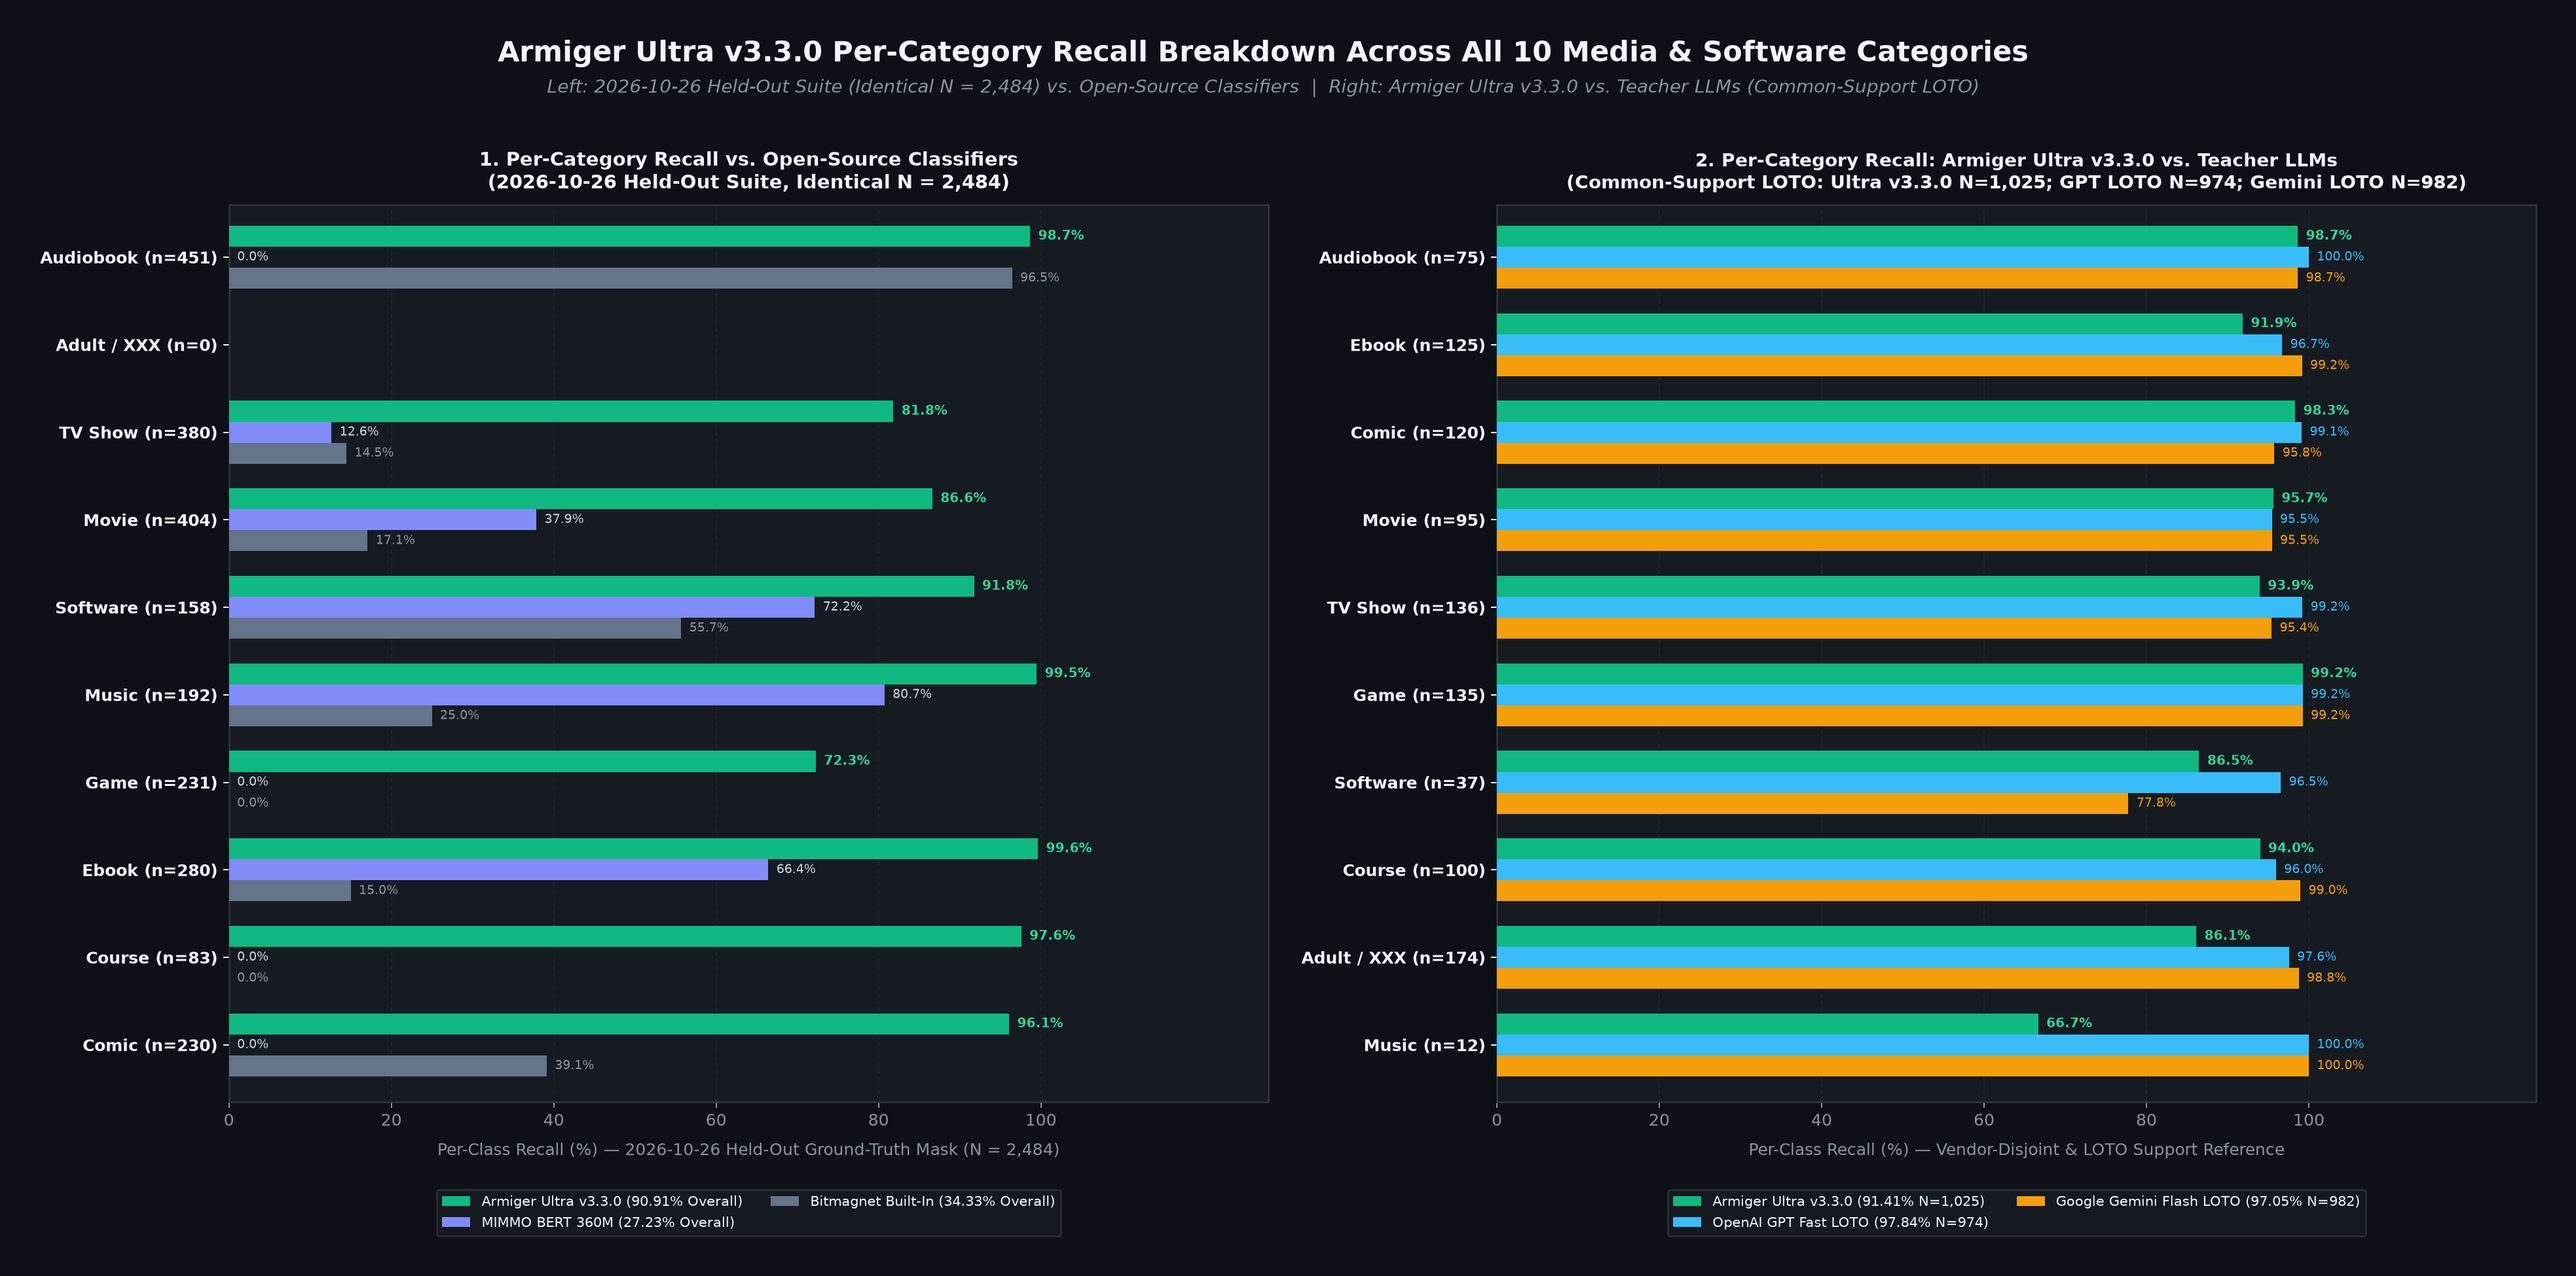
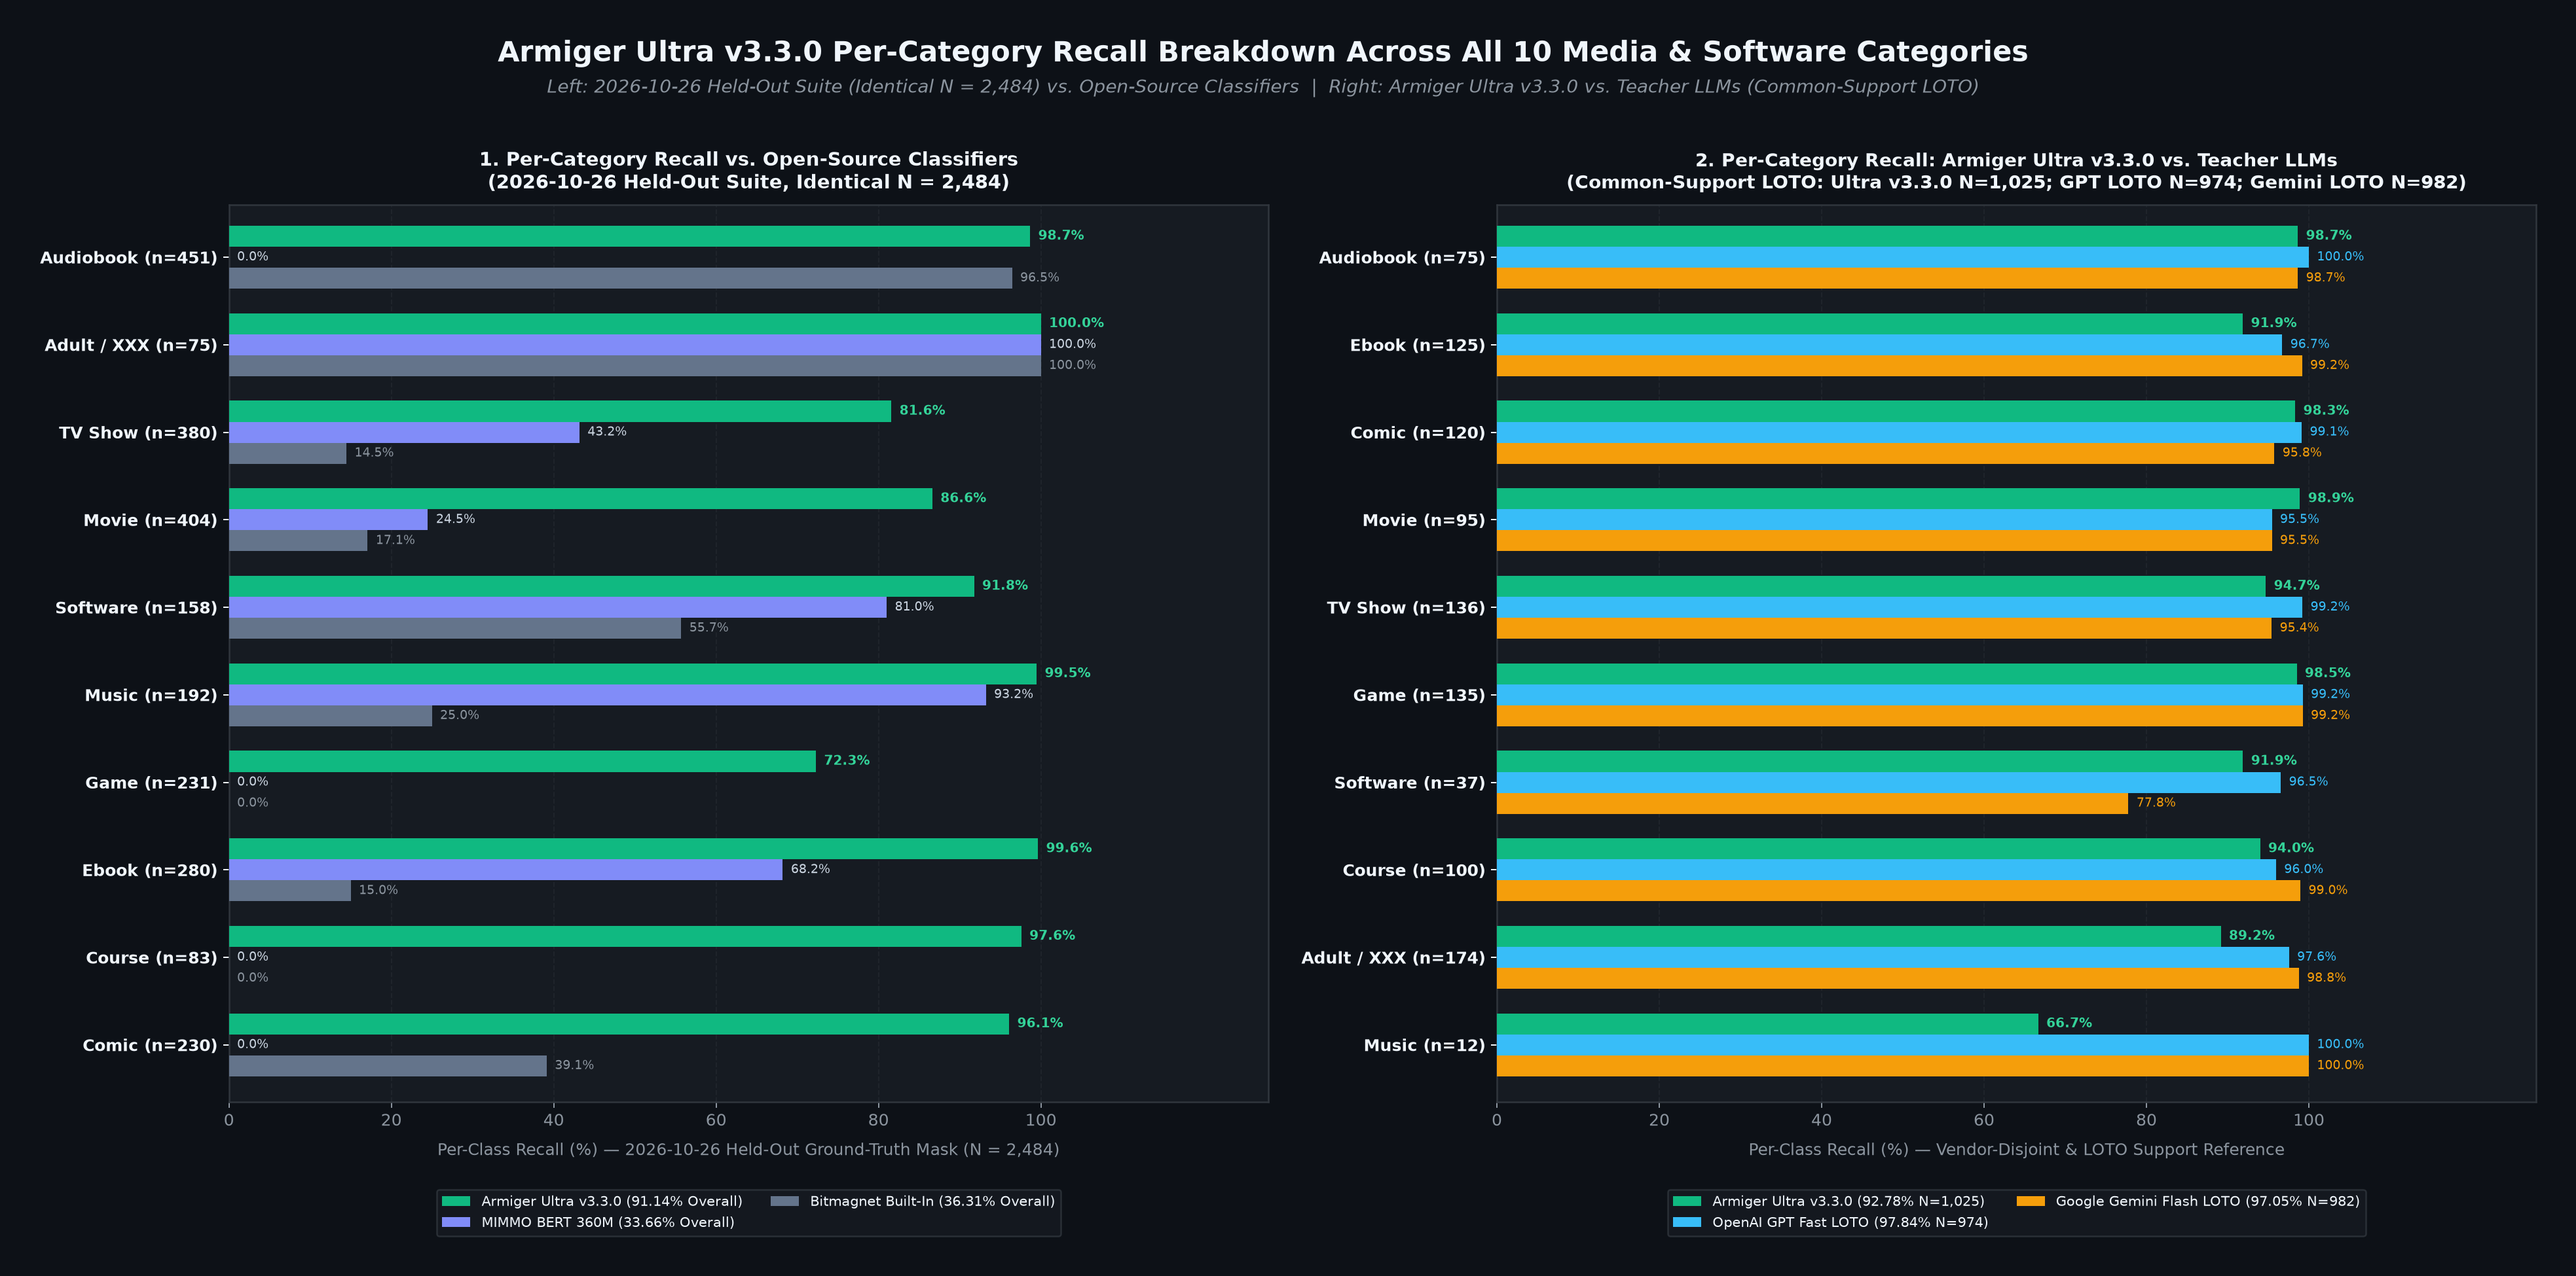
docs(benchmarks): refresh v3.3.0 held-out chart data and validate finite scores (#44)

diff --git a/benchmarks/generate_readme_overview.py b/benchmarks/generate_readme_overview.py
@@ -124,17 +124,21 @@ def render(data: dict, path: Path) -> None:
     ]
     overall_row = {
         "label": "Overall",
-        "n": ho["p1_cat10"]["Armiger Ultra v3.3.0"]["n"],
+        "n": int(ho["p1_cat10"]["Armiger Ultra v3.3.0"]["n"]),
         "scores": {
-            "Armiger Ultra v3.3.0": ho["p1_cat10"]["Armiger Ultra v3.3.0"]["point_pct"],
-            "MIMMO BERT (360M)": ho["p1_cat10"]["MIMMO BERT (360M)"]["point_pct"],
-            "Bitmagnet Built-In": ho["p1_cat10"]["Bitmagnet Built-In"]["point_pct"],
+            "Armiger Ultra v3.3.0": score(ho["p1_cat10"]["Armiger Ultra v3.3.0"]["point_pct"]),
+            "MIMMO BERT (360M)": score(ho["p1_cat10"]["MIMMO BERT (360M)"]["point_pct"]),
+            "Bitmagnet Built-In": score(ho["p1_cat10"]["Bitmagnet Built-In"]["point_pct"]),
         },
     }
-    cat_rows = [
-        {"label": lbl, "n": ho["per_cat_10"][k]["n"], "scores": {m: ho["per_cat_10"][k][f] for m, f in classifiers}}
-        for k, lbl in categories_order
-    ]
+    cat_rows = []
+    for k, lbl in categories_order:
+        row_n = ho["per_cat_10"][k]["n"]
+        if not isinstance(row_n, int) or row_n <= 0:
+            raise ValueError(f"Invalid sample count for {lbl}")
+        cat_rows.append(
+            {"label": lbl, "n": row_n, "scores": {m: score(ho["per_cat_10"][k][f]) for m, f in classifiers}}
+        )
 
     with plt.rc_context({"font.family": "DejaVu Sans", "text.color": white}):
         fig = plt.figure(figsize=(16, 10), dpi=120, facecolor=bg)

diff --git a/AGENTS/journal.md b/AGENTS/journal.md
@@ -1,3 +1,10 @@
+## 2026-10-27 — Refresh 2026-10-26 held-out chart data and validate finite overview scores
+
+- **Branch:** claude/fix-adult-chart-nan
+- **What changed:** Update `benchmarks/updated_std_charts_data.json` to the complete 2026-10-26 held-out evaluation output (`N = 2,484` across all 10 categories, including `n = 75` and `100.0%` recall on `Adult / XXX` and `95.65%` on `Comic`). Validate positive sample counts and finite `[0, 100]` scores via `score(...)` inside `benchmarks/generate_readme_overview.py` (`render()`) so `NaN` or empty category strata fail fast, and regenerate all 5 evaluation PNGs (`docs/assets/armiger_overview.png`, `docs/assets/armiger_categorical_breakdown.png`, `docs/assets/armiger_vs_llms_overall_and_6dims.png`, `docs/assets/armiger_vs_llms_cost_comparison.png`, `docs/assets/armiger_vs_torrent_classifiers_6dims.png`) and their provenance manifests (`benchmarks/CHARTS_MANIFEST.json`, `benchmarks/README_OVERVIEW.json`).
+- **Validation:** Verified `pytest -q` (`benchmarks/test_chart_integrity.py`, `tests/test_readme_overview.py`, and full unit suite) and `git diff --check`.
+- **Follow-ups:** None.
+
 ## 2026-10-27 — Release 3.3.3: BEP 46 webseed metadata alignment, KRPC interop, and HF repo consolidation
 
 - **Branch:** release/v3.3.3-dht-webseed-and-hf-cleanup
